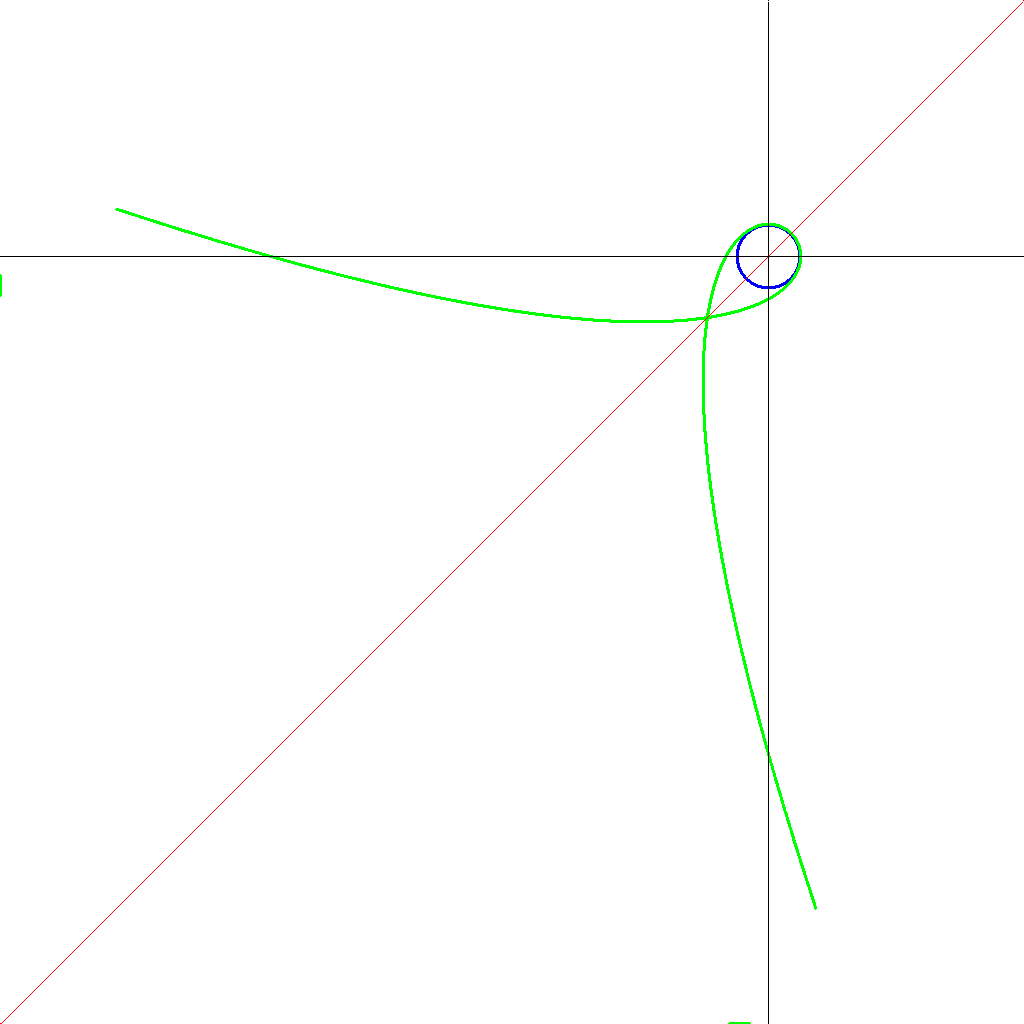
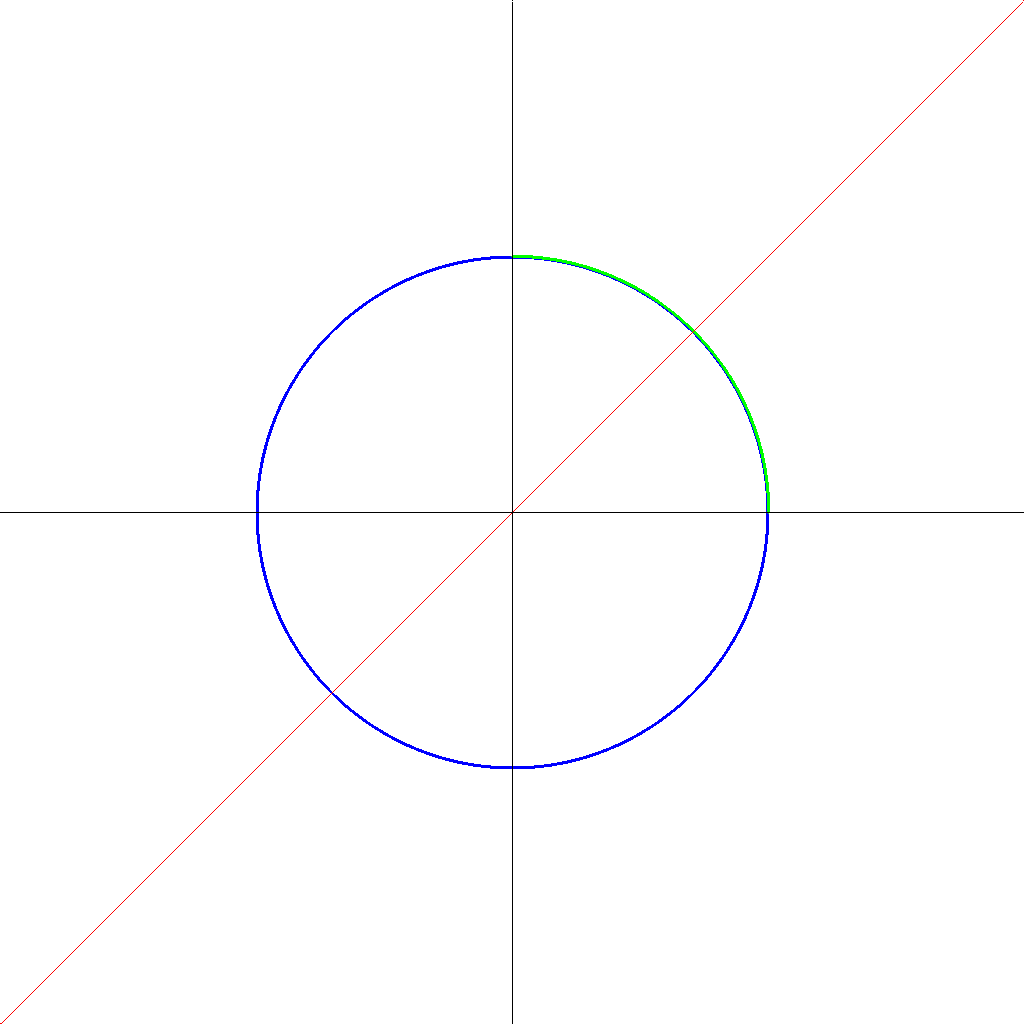
Added parameters for min and max lambda to main.

diff --git a/src/main/java/mainpgms/Main.java b/src/main/java/mainpgms/Main.java
@@ -25,21 +25,25 @@ public class Main {
         int radius;
         Rational scaleFactor;
         Rational offsetFactor;
-        if (args.length < 4) {
+        Rational lambdaMin;
+        Rational lambdaMax;
+        if (args.length < 6) {
             numSteps = 1024;
             radius = 512;
             scaleFactor = new Rational(1, 16);
             offsetFactor = new Rational(3, 4);
+            lambdaMin = new Rational(-3);
+            lambdaMax = new Rational(4);
         } else {
             numSteps = Integer.parseInt(args[0]);
             radius = Integer.parseInt(args[1])/2;
             scaleFactor = new Rational(args[2]);
             offsetFactor = new Rational(args[3]);
+            lambdaMin = new Rational(args[4]);
+            lambdaMax = new Rational(args[5]);
         }
         double log2radius = Math.log(radius)/Math.log(2);
         int canvasSize = 1 << ((int)Math.ceil(log2radius)+1);
-//        int offset = 5*canvasSize/8;
-//        radius /= 2;
         int offset = new Rational(canvasSize).mul(offsetFactor).intValue();
         radius = new Rational(radius).mul(scaleFactor).intValue();
         Canvas canvas = Canvas.newInstance(0., canvasSize-1, 0., canvasSize-1, canvasSize, canvasSize);
@@ -72,10 +76,9 @@ public class Main {
         var p2 = new Point(Rational.ONE, rationalA);
         var p3 = new Point(1, 1, 0);
         var curve = new DCBcurve(p0, p1, p2, p3);
-//        for (int i = 0; i <= 15*numSteps/4; i++) {
-//            var lambda = new Rational(i, numSteps).sub(new Rational(11,8));
-        for (int i = 0; i <= 7*numSteps; i++) {
-            var lambda = new Rational(i, numSteps).sub(new Rational(3));
+        Rational deltaLambda = lambdaMax.sub(lambdaMin);
+        for (int i = 0; i <= deltaLambda.intValue()*numSteps; i++) {
+            var lambda = new Rational(i, numSteps).add(lambdaMin);
             var p = curve.r(lambda);
             double px = p.getX().mul(new Rational(radius)).add(new Rational(offset)).toDouble();
             double py = p.getY().mul(new Rational(radius)).add(new Rational(offset)).toDouble();

diff --git a/src/main/java/com/pwolfgang/albebraiccalculus/types/DCBcurve.java b/src/main/java/com/pwolfgang/albebraiccalculus/types/DCBcurve.java
@@ -57,7 +57,7 @@ public class DCBcurve {
         Point p0Scaled = p0.mul(oneMinusLambda);
         Point p1Scaled = p1.mul(lambda);
         Point result = p0Scaled.add(p1Scaled);
-        return p0.mul(Rational.ONE.sub(lambda)).add(p1.mul(lambda));
+        return result;
     }
     
 }
